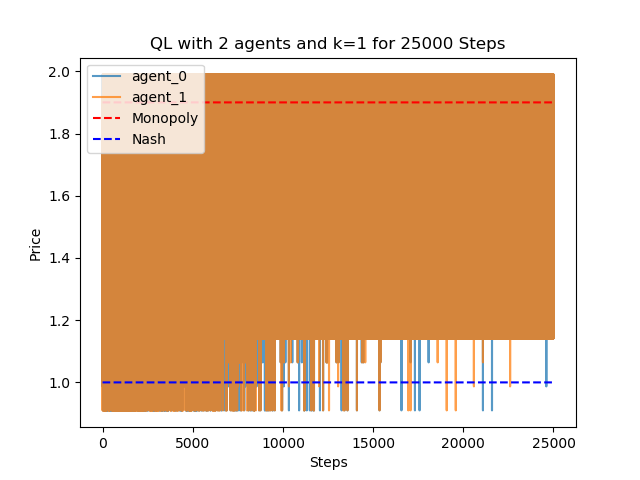
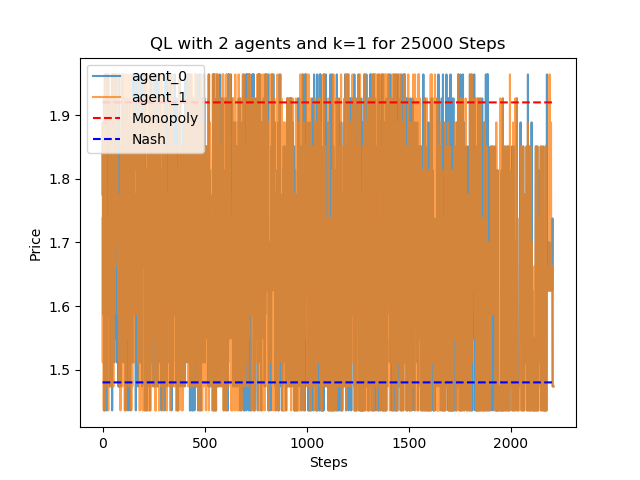
auto

diff --git a/gym_bertrandcompetition/envs/bertrand_competition_discrete.py b/gym_bertrandcompetition/envs/bertrand_competition_discrete.py
@@ -13,7 +13,7 @@ import matplotlib.pyplot as plt
 class BertrandCompetitionDiscreteEnv(MultiAgentEnv):
     metadata = {'render.modes': ['human']}
 
-    def __init__(self, num_agents = 2, c_i = 1, a_minus_c_i = 1, a_0 = 0, mu = 0.25, delta = 0.95, m = 15, xi = 0.1, k = 1, max_steps=200, plot=True, epochs=10, convergence=5, trainer_choice='DQN'):
+    def __init__(self, num_agents = 2, c_i = 1, a_minus_c_i = 1, a_0 = 0, mu = 0.25, delta = 0.95, m = 15, xi = 0.1, k = 1, max_steps=200, epochs=10, convergence=5, trainer_choice='DQN'):
 
         super(BertrandCompetitionDiscreteEnv, self).__init__()
         self.num_agents = num_agents
@@ -37,7 +37,8 @@ class BertrandCompetitionDiscreteEnv(MultiAgentEnv):
         self.mu = mu
 
         # Nash Equilibrium Price
-        price_range = np.arange(0, 10, 0.01)
+        # Make sure this tries all possibilities
+        price_range = np.arange(0, 2.5, 0.01)
         nash_temp = 0
         for i in price_range:
             p = [i] * num_agents
@@ -49,6 +50,7 @@ class BertrandCompetitionDiscreteEnv(MultiAgentEnv):
             if first_player_profit >= np.max(new_profit):
                 nash_temp = i
         self.pN = nash_temp
+        print('Nash Price:', self.pN)
 
         # Monopoly Equilibrium Price
         monopoly_profit = []
@@ -56,6 +58,7 @@ class BertrandCompetitionDiscreteEnv(MultiAgentEnv):
             p = [i] * num_agents
             monopoly_profit.append((i - c_i) * self.demand(self.a, p, self.mu, 0) * num_agents)
         self.pM = price_range[np.argmax(monopoly_profit)]
+        print('Monopoly Price:', self.pM)
 
         # MultiAgentEnv Action Space
         self.action_space = Discrete(m)
@@ -74,7 +77,6 @@ class BertrandCompetitionDiscreteEnv(MultiAgentEnv):
         self.reward_range = (-float('inf'), float('inf'))
         self.current_step = None
         self.max_steps = max_steps
-        self.plot = plot
         self.epochs = epochs
         self.convergence = convergence
         self.trainer_choice = trainer_choice

diff --git a/agents/q_learner.py b/agents/q_learner.py
@@ -84,15 +84,13 @@ class Q_Learner():
                 all_rewards[agent].append(mean_reward)
 
     def plot(self, last_n = 1000):
-
         x = np.arange(last_n)
-        # print(env.action_history[players[0]][-num_actions:])
-        # print(env.action_price_space.take(env.action_history[players[0]][-num_actions:]))
         for player in self.players:
             plt.plot(x, self.env.action_price_space.take(self.env.action_history[player][-last_n:]), alpha=0.75, label=player)
         plt.plot(x, np.repeat(self.env.pM, last_n), 'r--', label='Monopoly')
         plt.plot(x, np.repeat(self.env.pN, last_n), 'b--', label='Nash')
         plt.xlabel('Steps')
         plt.ylabel('Price')
-        plt.savefig('./figures/' + self.env.trainer_choice + '_with_' + str(self.env.num_agents) + '_agents_k_' + str(self.env.k) + '_for_' + str(self.env.epochs * self.env.max_steps) + '_steps,last_steps_' + str(last_n))
+        plt.legend()
+        plt.savefig('./figures/' + self.env.trainer_choice + '_with_' + str(self.env.num_agents) + '_agents_k_' + str(self.env.k) + '_for_' + str(self.env.epochs * self.env.max_steps) + '_steps_last_steps_' + str(last_n))
         plt.clf()

diff --git a/gym_bertrand_test.py b/gym_bertrand_test.py
@@ -25,11 +25,10 @@ m = 15
 max_steps = 500
 convergence = 5
 epochs = 50
-plot = True
 # choose from QL, DQN, PPO, A3C
 trainer_choice = 'QL'
 
-env = BertrandCompetitionDiscreteEnv(num_agents=num_agents, k=k, m=m, max_steps=max_steps, plot=plot, epochs=epochs, convergence=convergence, trainer_choice=trainer_choice)
+env = BertrandCompetitionDiscreteEnv(num_agents=num_agents, k=k, m=m, max_steps=max_steps, epochs=epochs, convergence=convergence, trainer_choice=trainer_choice)
 
 config = {
     'env_config': {
@@ -76,3 +75,6 @@ else:
 
     q_learner.train()
     q_learner.plot(last_n=1000)
+    q_learner.plot(last_n=100)
+
+env.plot()
